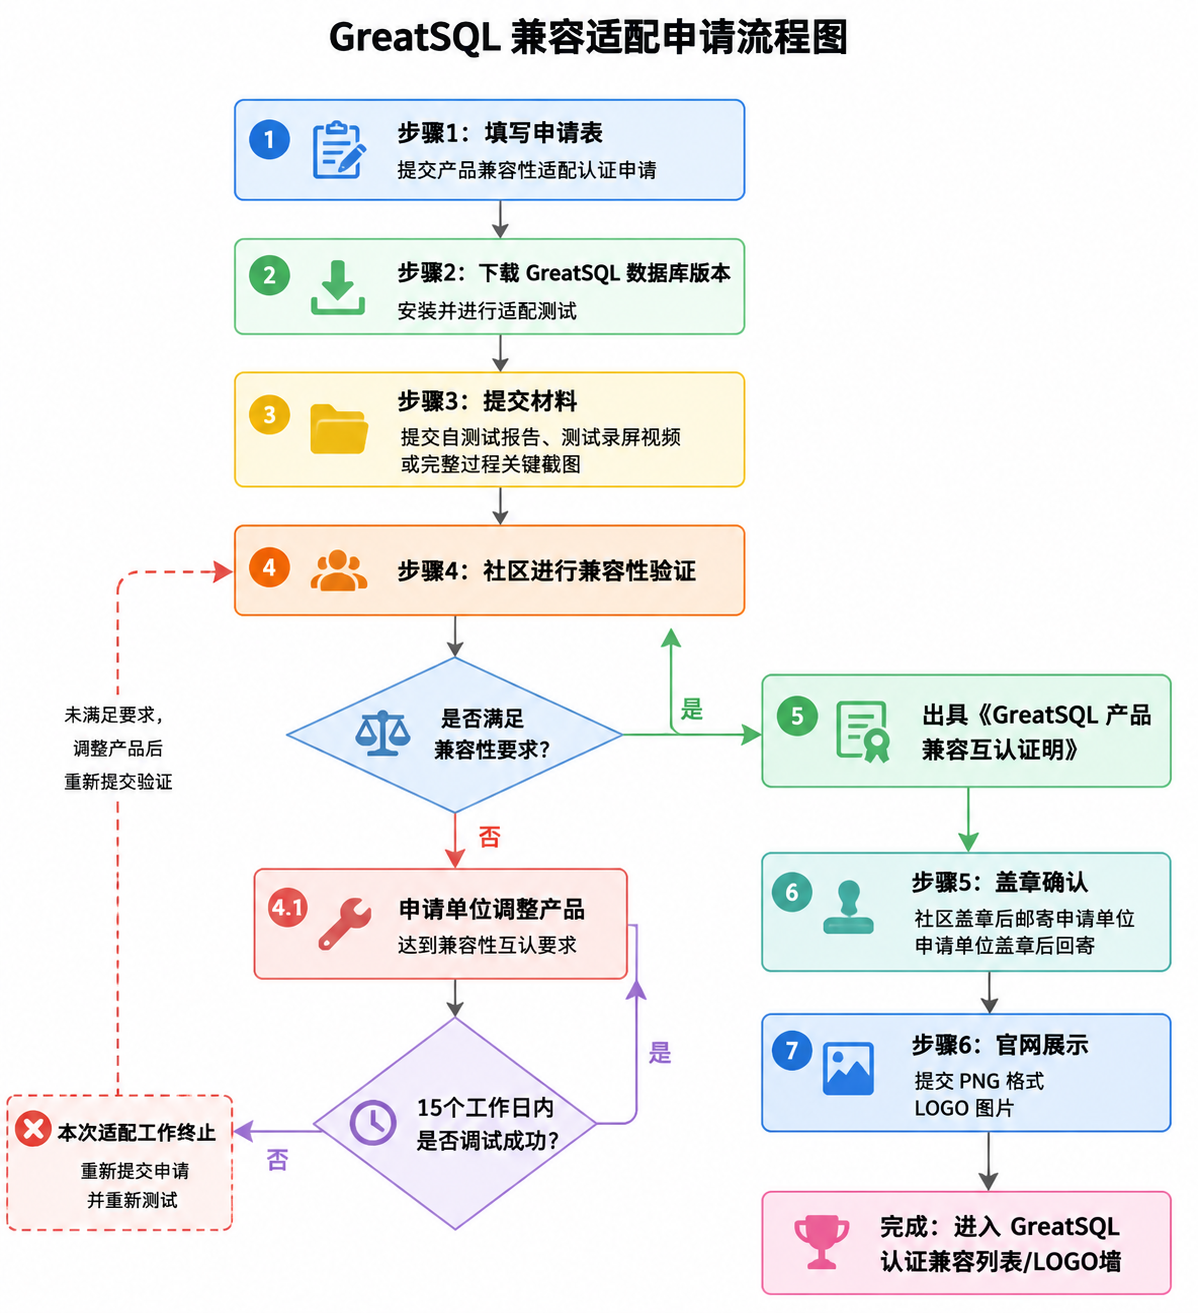
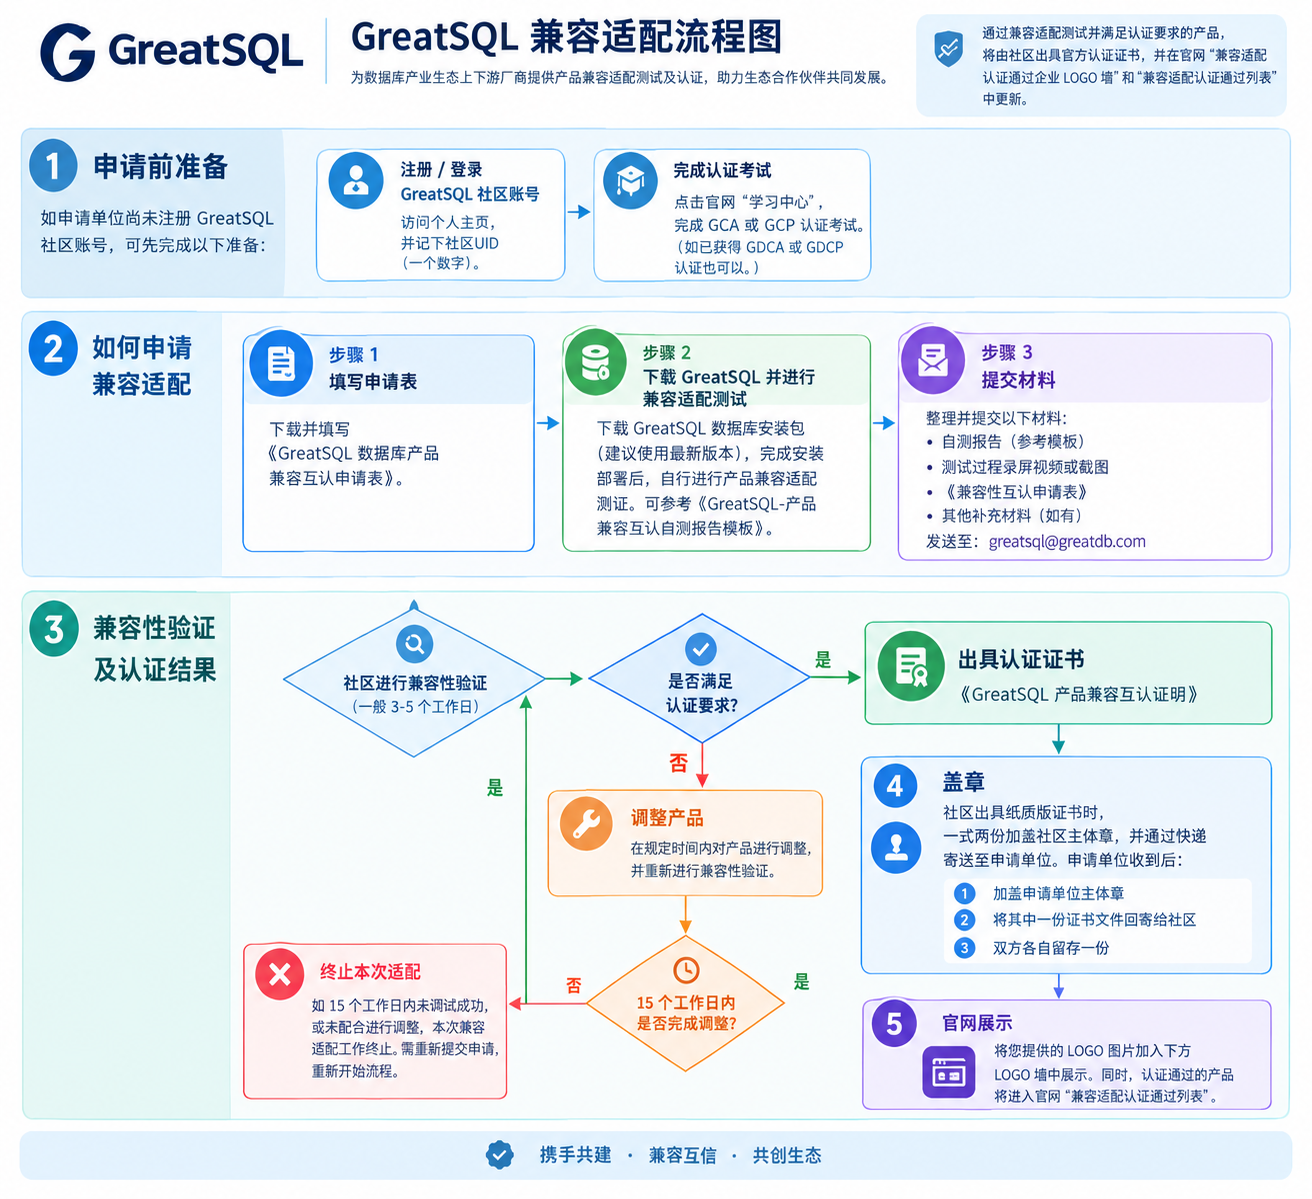
更新兼容适配认证说明，更新模板文档，增加认证要求

diff --git a/.vuepress/config.js b/.vuepress/config.js
@@ -33,6 +33,15 @@ module.exports = {
           encode: 'icase'
         }
       ],
+      'vuepress-plugin-right-anchor',{
+        showDepth: 3,
+        expand: {
+          trigger: 'click',  //'hover' | 'click'
+          clickModeDefaultOpen: true
+        },
+        customClass: 'your-customClass',
+        disableGlobalUI: false,
+      },
       '@vuepress/medium-zoom', {
         selector: 'img.zoom-custom-imgs',
         options: {
@@ -72,7 +81,7 @@ module.exports = {
         path: '3-community-toc',
       },
       {
-        title: '兼容性列表',
+        title: '兼容适配流程说明',
         path: '5-greatsql-adaptation',
       },
       {

diff --git a/5-greatsql-adaptation.md b/5-greatsql-adaptation.md
@@ -1,38 +1,87 @@
-# 兼容适配性列表
+# GreatSQL 兼容适配流程说明
 
-GreatSQL 社区面向数据库产业生态上下游厂商，包括如操作系统、芯片、中间件、存储、服务器、应用软件等，提供包括产品兼容适配性的测试以及相应的产品兼容适配认证。
+GreatSQL 社区面向数据库产业生态上下游厂商，包括操作系统、芯片、中间件、存储、服务器、应用软件等，提供产品兼容适配测试及相应的产品兼容适配认证。
 
-通过兼容适配测试的产品，将出具社区官方认证证书，并在本页面的“合作企业 LOGO墙”及“认证兼容适配列表”中更新。
+通过兼容适配测试并满足认证要求的产品，将由社区出具官方认证证书，并在本页面的“兼容适配认证通过企业 LOGO 墙”和“兼容适配认证通过列表”中更新。
 
-## 如何申请兼容适配
+## 一、申请前准备
 
-- 步骤 1：填写申请表 
+如申请单位尚未注册 GreatSQL 社区账号，可先注册/登录 [GreatSQL 社区账号](https://greatsql.cn)后访问 [**个人主页**](https://greatsql.cn/home.php?mod=space&do=profile)，并记下 **社区UID**（一个数字）。
 
-请填写 [《GreatSQL 数据库产品兼容互认申请表》](https://wj.qq.com/s2/14712421/4055/) 在线问卷表格，提交产品兼容适配认证申请，然后进入 **步骤 2**。
+点击 GreatSQL 官网上方菜单 [**学习中心**](https://learn.greatsql.cn)，完成 GCA 或 GCP 认证考试。
 
-- 步骤 2：下载测试
+- [GreatSQL 社区](https://greatsql.cn)
+- [个人主页](https://greatsql.cn/home.php?mod=space&do=profile)
+- [学习中心](https://learn.greatsql.cn)
 
-下载要适配的 [GreatSQL 数据库安装包](https://gitee.com/GreatSQL/GreatSQL/releases)，推荐下载最新版本，完成安装部署，并自行进行兼容适配测试。
+> 如果已获得 GDCA 或 GDCP 认证也可以。
 
-- 步骤 3：提交材料 
+## 二、如何申请兼容适配
 
-将兼容适配自测试报告/测试过程录屏视频（或完整过程关键截图），可参考模板文档：[《GreatSQL-产品兼容互认自测报告模板》](https://gitee.com/GreatSQL/GreatSQL-Doc/raw/master/GreatSQL-产品兼容互认自测报告模板.doc)，整理测试详细过程文档，并填写：[《GreatSQL数据库兼容性互认申请表》](https://gitee.com/GreatSQL/GreatSQL-Doc/raw/master/GreatSQL数据库兼容性互认申请表.doc)，发邮件至：<greatsql@greatdb.com>。 
+### 步骤 1：填写申请表
 
-- 步骤 4：出具证书 
+下载并填写[《GreatSQL 数据库产品兼容互认申请表》](https://gitee.com/GreatSQL/GreatSQL-Doc/raw/master/GreatSQL数据库兼容性互认申请表.doc)。
 
-    - 满足：双方兼容适配。验证完成后，满足认证要求，出具《GreatSQL 产品兼容互认证明》。 
+### 步骤 2：下载 GreatSQL 并进行兼容适配测试
 
-    - 未满足：在规定时间内对您的产品进行调整，达到兼容适配性互认要求为止。
+下载需要适配的 GreatSQL 数据库安装包，推荐使用最新版本，完成安装部署后，自行进行产品兼容适配测试。
 
-    注：如您在规定时间内（15 个工作日）未调试成功或与未配合调整，本次兼容适配工作终止。如需再次兼容适配测试，请重新提交申请，重新开始兼容适配测试工作。
+- [GreatSQL 数据库安装包及版本](https://gitee.com/GreatSQL/GreatSQL/releases)
 
-- 步骤 5：盖章 
+测试过程中可参考[《GreatSQL-产品兼容互认自测报告模板》](https://gitee.com/GreatSQL/GreatSQL-Doc/raw/master/GreatSQL-产品兼容互认自测报告模板.doc)，按模板整理测试环境、安装部署、功能验证、测试结果等信息。
 
-社区在出具纸质版的《GreatSQL 产品兼容性证明》时将一式两份加盖社区主体章，并通过快递邮寄至申请单位。由申请单位加盖申请单位主体章后，回寄给社区一份证书文件，双方各自存底保留。
+### 步骤 3：提交材料
 
-- 步骤 6：官网展示
+完成自测后，整理并提交以下材料：
 
-通过社区产品兼容适配互认的申请单位，可提供一张 PNG 格式的 LOGO 图片，用于在下方 LOGO 墙中展示，LOGO 图片格式参考下方 LOGO 墙。
+- 参考文档《GreatSQL-产品兼容互认自测报告模板》，整理兼容适配自测试报告；
+- 测试过程录屏视频，或完整过程关键截图；
+- 《GreatSQL 数据库兼容性互认申请表》；
+- 其他社区要求补充的材料（如有）。
+
+测试报告可参考：
+
+- [《GreatSQL-产品兼容互认自测报告模板》](https://gitee.com/GreatSQL/GreatSQL-Doc/raw/master/GreatSQL-产品兼容互认自测报告模板.doc)
+
+将材料发送至 GreatSQL 社区邮箱：
+
+**greatsql@greatdb.com**
+
+如测试过程中遇到问题，也可以通过官网“联系我们”页面提供的方式联系 GreatSQL 社区小助手。
+
+### 步骤 4：兼容性验证及认证结果
+
+GreatSQL 社区根据提交材料及验证情况进行兼容性确认。一般情况下，收到邮件后约 3-5 个工作日我们将完成自测报告审核。
+
+#### 通过
+
+双方完成兼容适配验证并满足认证要求后，社区出具：
+
+**《GreatSQL 产品兼容互认证明》**
+
+随后进入盖章及官网展示流程。
+
+#### 未通过
+
+如未满足兼容性要求，申请单位需要在规定时间内对产品进行调整，并重新进行兼容性验证，直至达到兼容适配互认要求。
+
+> 官网规定：如在 **15 个工作日**内未调试成功，或未配合进行调整，本次兼容适配工作终止。如需再次进行兼容适配测试，需要重新提交申请并重新开始兼容适配测试流程。
+
+## 三、盖章
+
+社区出具纸质版兼容适配证明时，一式两份加盖社区主体章，并通过快递寄送至申请单位。
+
+申请单位收到后：
+
+1. 加盖申请单位主体章；
+2. 将其中一份证书文件回寄给社区；
+3. 双方各自留存一份。
+
+## 四、官网展示
+
+我们将您提供 LOGO 图片加入下方 LOGO 墙中展示。同时，认证通过的产品将进入官网“兼容适配认证通过列表”。
+
+## 五、完整流程概览
 
 ![GreatSQL 兼容适配申请流程图](./5-greatsql-adaptation-flowchart.png)
 
